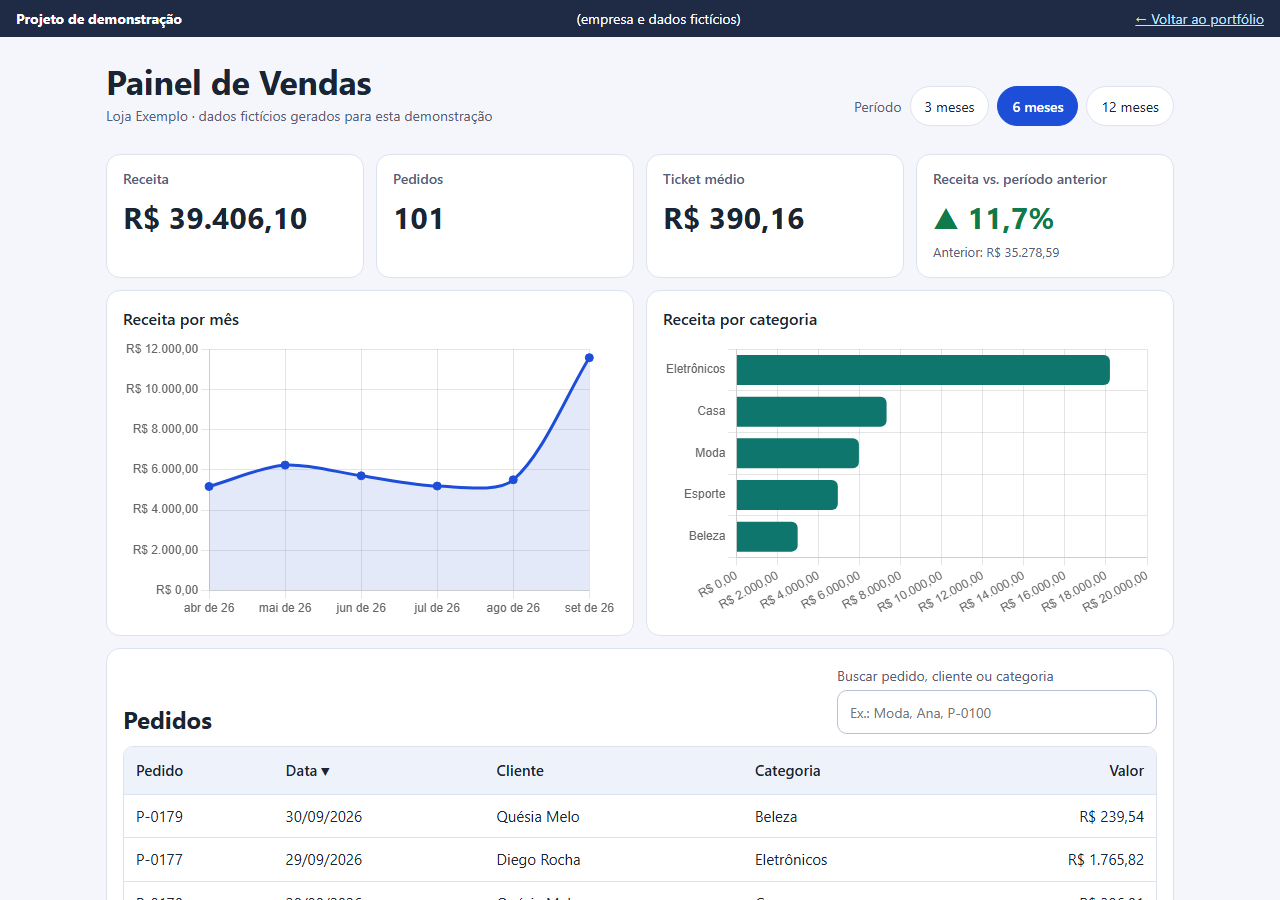
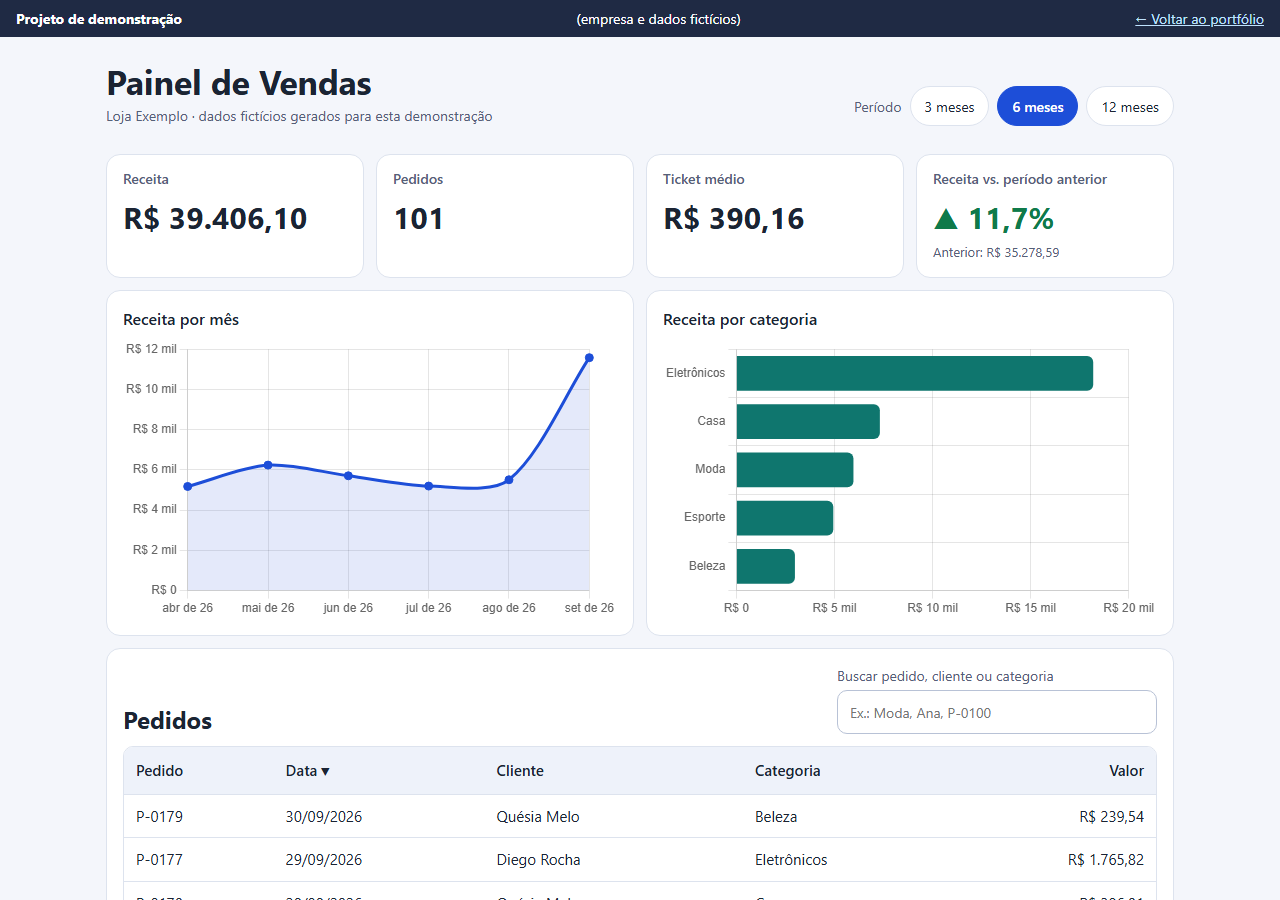
feat: demo da landing page de clínica e correção de rolagem horizontal no painel

diff --git a/demos/clinica/index.html b/demos/clinica/index.html
@@ -1,0 +1,155 @@
+<!doctype html>
+<html lang="pt-BR">
+<head>
+  <meta charset="utf-8">
+  <meta name="viewport" content="width=device-width, initial-scale=1">
+  <title>Clínica Sorriso Vivo · Demonstração · Wallyson Marcos</title>
+  <meta name="description" content="Demonstração de landing page para uma clínica odontológica fictícia: responsiva, com perguntas frequentes e formulário de agendamento de exemplo.">
+  <link rel="icon" href="../../assets/img/favicon.svg" type="image/svg+xml">
+  <link rel="stylesheet" href="styles.css">
+</head>
+<body>
+  <div class="faixa-demo" role="note">
+    <strong>Projeto de demonstração</strong> (empresa e dados fictícios)
+    <a href="../../">← Voltar ao portfólio</a>
+  </div>
+
+  <header class="topo">
+    <a class="marca" href="#inicio" aria-label="Clínica Sorriso Vivo, início">
+      <svg viewBox="0 0 120 140" width="26" height="30" aria-hidden="true"><path d="M60 28C48 16 24 18 22 42c-2 18 10 30 12 54 2 22 8 32 14 32 8 0 6-28 12-28s4 28 12 28c6 0 12-10 14-32 2-24 14-36 12-54C96 18 72 16 60 28z" fill="currentColor"/></svg>
+      Sorriso Vivo
+    </a>
+    <button class="menu-btn" type="button" aria-expanded="false" aria-controls="menu">Menu</button>
+    <nav id="menu" class="menu" aria-label="Principal">
+      <a href="#tratamentos">Tratamentos</a>
+      <a href="#diferenciais">Diferenciais</a>
+      <a href="#depoimentos">Depoimentos</a>
+      <a href="#duvidas">Dúvidas</a>
+      <a class="btn btn-pequeno" href="#agendar">Agendar</a>
+    </nav>
+  </header>
+
+  <main>
+    <section class="hero" id="inicio">
+      <div class="hero-texto">
+        <p class="selo">Odontologia sem pressa</p>
+        <h1>Seu sorriso merece cuidado de verdade</h1>
+        <p class="lead">Avaliação clara, tratamento explicado antes de começar e um ambiente em que você se sente à vontade.</p>
+        <div class="acoes">
+          <a class="btn" href="#agendar">Agendar avaliação</a>
+          <a class="btn btn-claro" href="#tratamentos">Ver tratamentos</a>
+        </div>
+      </div>
+      <div class="hero-arte" aria-hidden="true">
+        <svg viewBox="0 0 220 220" role="presentation">
+          <circle cx="110" cy="110" r="104" fill="#d9f1ef"/>
+          <circle cx="110" cy="110" r="76" fill="#bfe8e4"/>
+          <path d="M110 58C90 40 50 44 48 84c-2 28 14 44 18 80 3 26 12 36 22 36 12 0 10-42 22-42s10 42 22 42c10 0 19-10 22-36 4-36 20-52 18-80-2-40-42-44-62-26z" fill="#fff" stroke="#0b6e8a" stroke-width="5" stroke-linejoin="round"/>
+          <path d="M82 84c4-8 12-12 20-10" fill="none" stroke="#9fd3de" stroke-width="5" stroke-linecap="round"/>
+          <path d="M176 44l5 12 12 5-12 5-5 12-5-12-12-5 12-5z" fill="#f2a93b"/>
+          <path d="M40 150l3 8 8 3-8 3-3 8-3-8-8-3 8-3z" fill="#0b6e8a"/>
+        </svg>
+      </div>
+    </section>
+
+    <section class="secao" id="tratamentos" aria-labelledby="t-trat">
+      <h2 id="t-trat">Tratamentos</h2>
+      <p class="intro">Do cuidado de rotina aos procedimentos mais completos.</p>
+      <ul class="cards">
+        <li class="card"><h3>Limpeza e prevenção</h3><p>Remoção de placa e tártaro e orientação de higiene para o dia a dia.</p></li>
+        <li class="card"><h3>Clareamento</h3><p>Dentes mais claros com acompanhamento, respeitando a sensibilidade de cada paciente.</p></li>
+        <li class="card"><h3>Aparelho ortodôntico</h3><p>Alinhamento dos dentes com opções fixas e transparentes.</p></li>
+        <li class="card"><h3>Implantes</h3><p>Reposição de dentes com planejamento e explicação de cada etapa.</p></li>
+        <li class="card"><h3>Restaurações em resina</h3><p>Correção de cáries e pequenas fraturas com acabamento natural.</p></li>
+        <li class="card"><h3>Atendimento infantil</h3><p>Consultas tranquilas e acolhedoras para os pequenos.</p></li>
+      </ul>
+    </section>
+
+    <section class="secao faixa-verde" id="diferenciais" aria-labelledby="t-dif">
+      <h2 id="t-dif">Por que escolher a Sorriso Vivo</h2>
+      <div class="tres">
+        <div><h3>Atendimento sem pressa</h3><p>Tempo para ouvir você e tirar todas as dúvidas.</p></div>
+        <div><h3>Plano explicado antes</h3><p>Você sabe o que será feito, por quê e quanto tempo leva.</p></div>
+        <div><h3>Ambiente confortável</h3><p>Espaço calmo, limpo e pensado para quem tem receio.</p></div>
+      </div>
+    </section>
+
+    <section class="secao" id="depoimentos" aria-labelledby="t-dep">
+      <h2 id="t-dep">O que pacientes costumam dizer</h2>
+      <p class="aviso-exemplo">Depoimentos de exemplo, escritos para esta demonstração.</p>
+      <div class="cards">
+        <blockquote class="card"><p>“Fui bem recebido e entendi tudo o que seria feito.”</p><footer>Paciente A · exemplo</footer></blockquote>
+        <blockquote class="card"><p>“Levei meu filho com medo e ele saiu pedindo para voltar.”</p><footer>Paciente B · exemplo</footer></blockquote>
+        <blockquote class="card"><p>“Consegui agendar rápido e o atendimento foi pontual.”</p><footer>Paciente C · exemplo</footer></blockquote>
+      </div>
+    </section>
+
+    <section class="secao" id="duvidas" aria-labelledby="t-faq">
+      <h2 id="t-faq">Perguntas frequentes</h2>
+      <div class="faq">
+        <div class="faq-item">
+          <h3><button type="button" class="faq-btn" aria-expanded="false" aria-controls="r1" id="b1">Preciso de encaminhamento para a primeira consulta?</button></h3>
+          <div class="faq-resp" id="r1" role="region" aria-labelledby="b1" hidden><p>Não. Você pode agendar uma avaliação direto, sem encaminhamento.</p></div>
+        </div>
+        <div class="faq-item">
+          <h3><button type="button" class="faq-btn" aria-expanded="false" aria-controls="r2" id="b2">Quanto tempo dura a avaliação?</button></h3>
+          <div class="faq-resp" id="r2" role="region" aria-labelledby="b2" hidden><p>Em média 40 minutos, com exame, conversa e explicação do plano de tratamento.</p></div>
+        </div>
+        <div class="faq-item">
+          <h3><button type="button" class="faq-btn" aria-expanded="false" aria-controls="r3" id="b3">Vocês atendem crianças?</button></h3>
+          <div class="faq-resp" id="r3" role="region" aria-labelledby="b3" hidden><p>Sim, com atendimento calmo e adaptado para os pequenos.</p></div>
+        </div>
+        <div class="faq-item">
+          <h3><button type="button" class="faq-btn" aria-expanded="false" aria-controls="r4" id="b4">O clareamento causa sensibilidade?</button></h3>
+          <div class="faq-resp" id="r4" role="region" aria-labelledby="b4" hidden><p>Pode causar uma sensibilidade passageira em algumas pessoas. Avaliamos o seu caso antes e orientamos o cuidado durante o tratamento.</p></div>
+        </div>
+        <div class="faq-item">
+          <h3><button type="button" class="faq-btn" aria-expanded="false" aria-controls="r5" id="b5">Como funciona o pagamento?</button></h3>
+          <div class="faq-resp" id="r5" role="region" aria-labelledby="b5" hidden><p>Os valores e as formas de pagamento são combinados depois da avaliação, quando o plano de tratamento está definido. (Texto de exemplo.)</p></div>
+        </div>
+      </div>
+    </section>
+
+    <section class="secao agendar" id="agendar" aria-labelledby="t-ag">
+      <h2 id="t-ag">Agende sua avaliação</h2>
+      <p class="intro">Preencha e a equipe retorna para confirmar o melhor horário.</p>
+      <form id="form" novalidate>
+        <div class="campo">
+          <label for="nome">Nome</label>
+          <input id="nome" name="nome" type="text" autocomplete="name" required>
+          <p class="erro-campo" id="e-nome" hidden>Informe o seu nome.</p>
+        </div>
+        <div class="campo">
+          <label for="tel">Telefone com DDD</label>
+          <input id="tel" name="tel" type="tel" inputmode="tel" autocomplete="tel" required placeholder="(00) 00000-0000">
+          <p class="erro-campo" id="e-tel" hidden>Informe um telefone com DDD.</p>
+        </div>
+        <div class="campo">
+          <label for="horario">Melhor horário</label>
+          <select id="horario" name="horario">
+            <option>Manhã</option>
+            <option>Tarde</option>
+            <option>Noite</option>
+          </select>
+        </div>
+        <div class="campo">
+          <label for="msg">Mensagem (opcional)</label>
+          <textarea id="msg" name="msg" rows="3"></textarea>
+        </div>
+        <button class="btn" type="submit">Pedir agendamento</button>
+        <p id="resultado" role="status" class="resultado" hidden>Esta é uma demonstração: nada foi enviado.</p>
+      </form>
+    </section>
+  </main>
+
+  <footer class="rodape">
+    <p><strong>Clínica Sorriso Vivo</strong> · empresa fictícia</p>
+    <p>Rua Exemplo, 123 · Centro · (00) 0000-0000 (número de exemplo)</p>
+    <p>Demonstração criada por Wallyson Marcos. <a href="../../">Voltar ao portfólio</a></p>
+  </footer>
+
+  <a class="whats" href="#agendar" aria-label="WhatsApp (número de exemplo, demonstração)">WhatsApp</a>
+
+  <script src="script.js"></script>
+</body>
+</html>

diff --git a/demos/clinica/styles.css b/demos/clinica/styles.css
@@ -1,0 +1,101 @@
+:root {
+  --azul: #0b6e8a;
+  --azul-escuro: #07495d;
+  --menta: #e6f6f4;
+  --texto: #15303a;
+  --suave: #4a6068;
+  --borda: #d4e3e6;
+  --ouro: #f2a93b;
+  --faixa: #1f2a44;
+  --raio: 16px;
+}
+* { box-sizing: border-box; }
+html { scroll-behavior: smooth; -webkit-text-size-adjust: 100%; }
+body { margin: 0; color: var(--texto); background: #fff; font: 17px/1.6 system-ui, -apple-system, "Segoe UI", Roboto, sans-serif; }
+h1, h2, h3 { line-height: 1.2; margin: 0; }
+img, svg { max-width: 100%; }
+:focus-visible { outline: 3px solid #f59e0b; outline-offset: 3px; border-radius: 6px; }
+a { color: var(--azul); }
+
+.faixa-demo { background: var(--faixa); color: #fff; padding: 8px 16px; display: flex; flex-wrap: wrap; gap: 4px 16px; justify-content: space-between; font-size: 14px; }
+.faixa-demo a { color: #bfe3ff; }
+
+.topo { position: sticky; top: 0; z-index: 20; background: rgba(255,255,255,.96); backdrop-filter: blur(6px); border-bottom: 1px solid var(--borda); display: flex; align-items: center; justify-content: space-between; gap: 12px; padding: 10px 16px; flex-wrap: wrap; }
+.marca { display: inline-flex; align-items: center; gap: 8px; font-weight: 800; font-size: 20px; color: var(--azul); text-decoration: none; }
+.menu-btn { display: none; border: 1px solid var(--borda); background: #fff; border-radius: 10px; padding: 8px 14px; font: inherit; font-weight: 600; min-height: 44px; cursor: pointer; }
+.menu { display: flex; align-items: center; gap: 18px; flex-wrap: wrap; }
+.menu a { text-decoration: none; color: var(--texto); font-weight: 500; }
+.menu a:hover { color: var(--azul); }
+
+.btn { display: inline-flex; align-items: center; justify-content: center; background: var(--azul); color: #fff; padding: 13px 22px; border-radius: 999px; font: inherit; font-weight: 700; border: 2px solid var(--azul); text-decoration: none; cursor: pointer; min-height: 48px; }
+.btn:hover { background: var(--azul-escuro); border-color: var(--azul-escuro); }
+.btn-claro { background: #fff; color: var(--azul); }
+.btn-claro:hover { background: var(--menta); color: var(--azul-escuro); }
+.menu .btn-pequeno { padding: 8px 18px; min-height: 40px; color: #fff; }
+
+.hero { max-width: 1100px; margin: 0 auto; padding: 40px 16px 24px; display: grid; gap: 24px; grid-template-columns: 1.1fr .9fr; align-items: center; }
+.selo { display: inline-block; margin: 0 0 12px; background: var(--menta); color: var(--azul-escuro); padding: 4px 12px; border-radius: 999px; font-weight: 700; font-size: 14px; }
+.hero h1 { font-size: clamp(2rem, 1.4rem + 3vw, 3.2rem); letter-spacing: -.02em; }
+.lead { font-size: 1.15rem; color: var(--suave); margin: 16px 0 24px; max-width: 34em; }
+.acoes { display: flex; flex-wrap: wrap; gap: 12px; }
+.hero-arte svg { width: 100%; max-width: 380px; display: block; margin: 0 auto; }
+
+.secao { max-width: 1100px; margin: 0 auto; padding: 48px 16px; }
+.secao h2 { font-size: clamp(1.5rem, 1.2rem + 1.5vw, 2.1rem); margin-bottom: 8px; }
+.intro { color: var(--suave); margin: 0 0 24px; }
+.faixa-verde { max-width: none; background: var(--menta); }
+.faixa-verde > * { max-width: 1068px; margin-left: auto; margin-right: auto; }
+.tres { display: grid; grid-template-columns: repeat(auto-fit, minmax(240px, 1fr)); gap: 24px; margin-top: 20px; }
+.tres h3 { color: var(--azul-escuro); margin-bottom: 6px; }
+.tres p { margin: 0; color: var(--suave); }
+
+.cards { list-style: none; margin: 0; padding: 0; display: grid; grid-template-columns: repeat(auto-fit, minmax(240px, 1fr)); gap: 16px; }
+#tratamentos .cards { grid-template-columns: repeat(auto-fit, minmax(290px, 1fr)); }
+.card { background: #fff; border: 1px solid var(--borda); border-radius: var(--raio); padding: 20px; margin: 0; }
+.card h3 { color: var(--azul-escuro); margin-bottom: 6px; font-size: 1.1rem; }
+.card p { margin: 0; color: var(--suave); }
+blockquote.card footer { margin-top: 10px; font-size: 14px; color: var(--suave); }
+.aviso-exemplo { display: inline-block; background: #fff7e6; border: 1px solid #f3d9a4; color: #6b4a00; padding: 4px 12px; border-radius: 8px; font-size: 14px; margin: 0 0 16px; }
+
+.faq { max-width: 760px; }
+.faq-item { border-bottom: 1px solid var(--borda); }
+.faq-item h3 { font-size: 1rem; }
+.faq-btn { all: unset; box-sizing: border-box; display: flex; justify-content: space-between; align-items: center; gap: 16px; width: 100%; padding: 16px 4px; cursor: pointer; font-weight: 600; font-size: 1.05rem; }
+.faq-btn::after { content: "+"; font-size: 1.5rem; color: var(--azul); flex: none; }
+.faq-btn[aria-expanded="true"]::after { content: "–"; }
+.faq-btn:focus-visible { outline: 3px solid #f59e0b; outline-offset: 2px; border-radius: 6px; }
+.faq-resp { padding: 0 4px 16px; color: var(--suave); }
+.faq-resp p { margin: 0; }
+
+.agendar { background: linear-gradient(180deg, #fff, var(--menta)); max-width: none; }
+.agendar > * { max-width: 560px; margin-left: auto; margin-right: auto; }
+.agendar h2, .agendar .intro { text-align: center; }
+form { background: #fff; border: 1px solid var(--borda); border-radius: var(--raio); padding: 20px; display: grid; gap: 14px; }
+.campo { display: grid; gap: 4px; }
+label { font-weight: 600; font-size: 15px; }
+input, select, textarea { font: inherit; padding: 12px; border: 1px solid #a9bdc3; border-radius: 10px; background: #fff; color: var(--texto); min-height: 48px; width: 100%; }
+input:invalid.tocado, select:invalid.tocado { border-color: #b42318; }
+.erro-campo { margin: 0; color: #b42318; font-size: 14px; }
+.resultado { margin: 0; background: var(--menta); border: 1px solid #b9e1db; border-radius: 10px; padding: 12px; font-weight: 600; color: var(--azul-escuro); }
+
+.rodape { background: #0f2730; color: #cfe3e8; text-align: center; padding: 28px 16px 90px; font-size: 14px; }
+.rodape p { margin: 4px 0; }
+.rodape a { color: #9fd9ef; }
+
+.whats { position: fixed; right: 16px; bottom: 16px; background: #1a7f4b; color: #fff; padding: 12px 18px; border-radius: 999px; font-weight: 700; text-decoration: none; box-shadow: 0 6px 18px rgba(0,0,0,.25); z-index: 30; min-height: 48px; display: inline-flex; align-items: center; }
+.whats:hover { background: #136339; }
+
+@media (max-width: 820px) {
+  .hero { grid-template-columns: 1fr; padding-top: 24px; }
+  .hero-arte { order: -1; }
+  .hero-arte svg { max-width: 220px; }
+  .menu-btn { display: inline-block; }
+  .menu { display: none; width: 100%; flex-direction: column; align-items: stretch; gap: 4px; padding: 8px 0 4px; }
+  .menu.aberto { display: flex; }
+  .menu a { padding: 10px 4px; }
+  .menu .btn-pequeno { text-align: center; }
+}
+@media (prefers-reduced-motion: reduce) {
+  html { scroll-behavior: auto; }
+  * { animation: none !important; transition: none !important; }
+}

diff --git a/demos/clinica/script.js b/demos/clinica/script.js
@@ -1,0 +1,44 @@
+// Menu em telas pequenas
+const botaoMenu = document.querySelector('.menu-btn')
+const menu = document.getElementById('menu')
+botaoMenu.addEventListener('click', () => {
+  const aberto = menu.classList.toggle('aberto')
+  botaoMenu.setAttribute('aria-expanded', String(aberto))
+})
+menu.addEventListener('click', (e) => {
+  if (e.target.closest('a')) {
+    menu.classList.remove('aberto')
+    botaoMenu.setAttribute('aria-expanded', 'false')
+  }
+})
+
+// Perguntas frequentes: um botão por pergunta, com aria-expanded (funciona com Tab, Enter e Espaço)
+document.querySelectorAll('.faq-btn').forEach((botao) => {
+  botao.addEventListener('click', () => {
+    const abrir = botao.getAttribute('aria-expanded') !== 'true'
+    botao.setAttribute('aria-expanded', String(abrir))
+    document.getElementById(botao.getAttribute('aria-controls')).hidden = !abrir
+  })
+})
+
+// Formulário de exemplo: valida no navegador e não envia nada
+const form = document.getElementById('form')
+const resultado = document.getElementById('resultado')
+const regras = [
+  { campo: 'nome', erro: 'e-nome', valido: (v) => v.trim().length >= 2 },
+  { campo: 'tel', erro: 'e-tel', valido: (v) => v.replace(/\D/g, '').length >= 10 }
+]
+form.addEventListener('submit', (e) => {
+  e.preventDefault()
+  let tudoCerto = true
+  for (const r of regras) {
+    const input = document.getElementById(r.campo)
+    const ok = r.valido(input.value)
+    document.getElementById(r.erro).hidden = ok
+    input.setAttribute('aria-invalid', String(!ok))
+    if (!ok && tudoCerto) input.focus()
+    tudoCerto = tudoCerto && ok
+  }
+  resultado.hidden = !tudoCerto
+  if (tudoCerto) form.reset()
+})

diff --git a/demos/painel/styles.css b/demos/painel/styles.css
@@ -68,7 +68,7 @@ td.vazio { text-align: center; color: var(--suave); padding: 24px; white-space: 
 
 .rodape { text-align: center; color: var(--suave); font-size: 13px; padding: 16px 16px 32px; }
 
-.sr-only { position: absolute !important; width: 1px; height: 1px; padding: 0; margin: -1px; overflow: hidden; clip: rect(0, 0, 0, 0); white-space: nowrap; border: 0; }
+.sr-only { position: absolute !important; width: 1px; min-width: 0 !important; height: 1px; padding: 0; margin: -1px; overflow: hidden; clip: rect(0, 0, 0, 0); white-space: nowrap; border: 0; }
 
 @media (max-width: 700px) {
   .topo { padding-top: 16px; }
